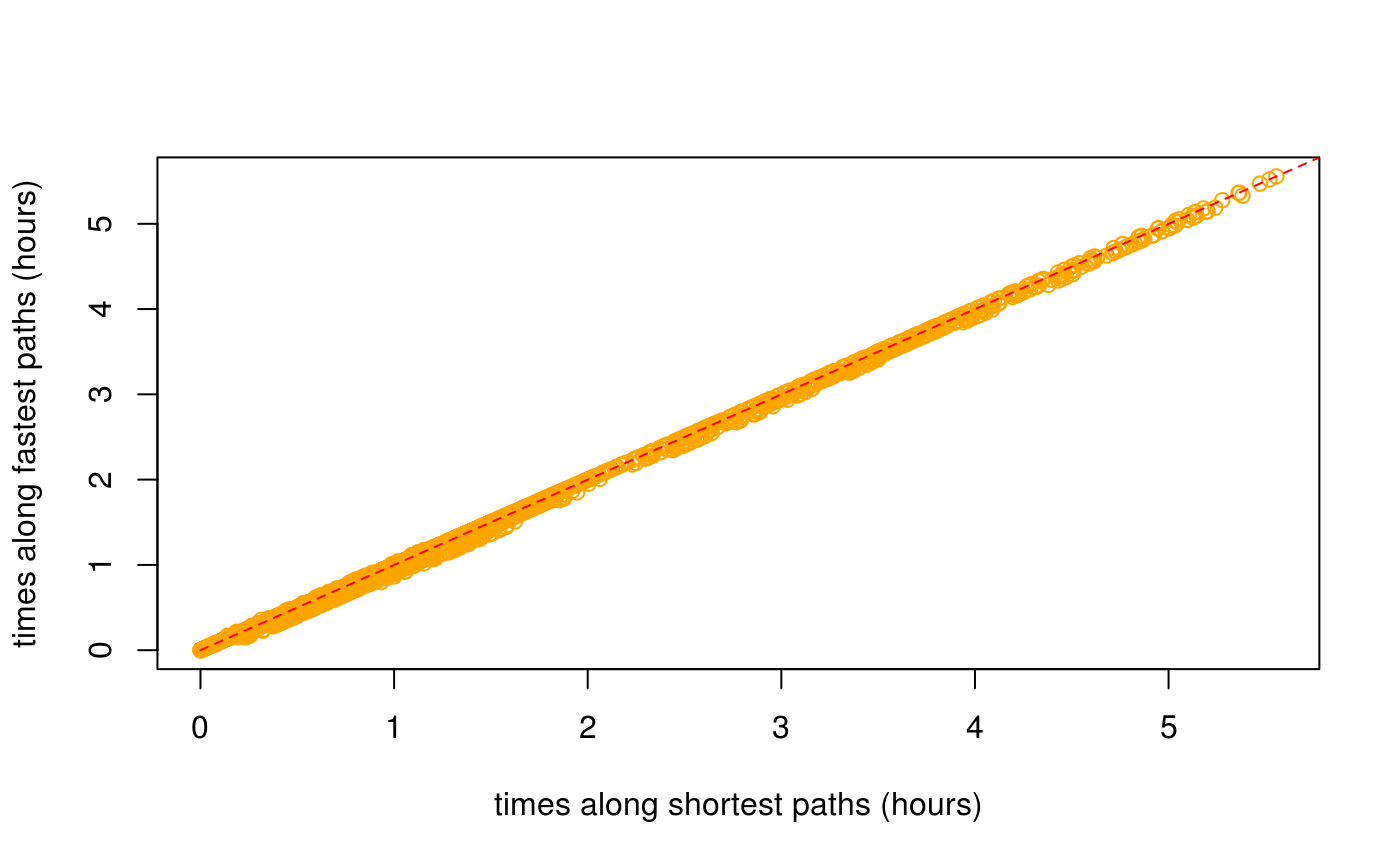
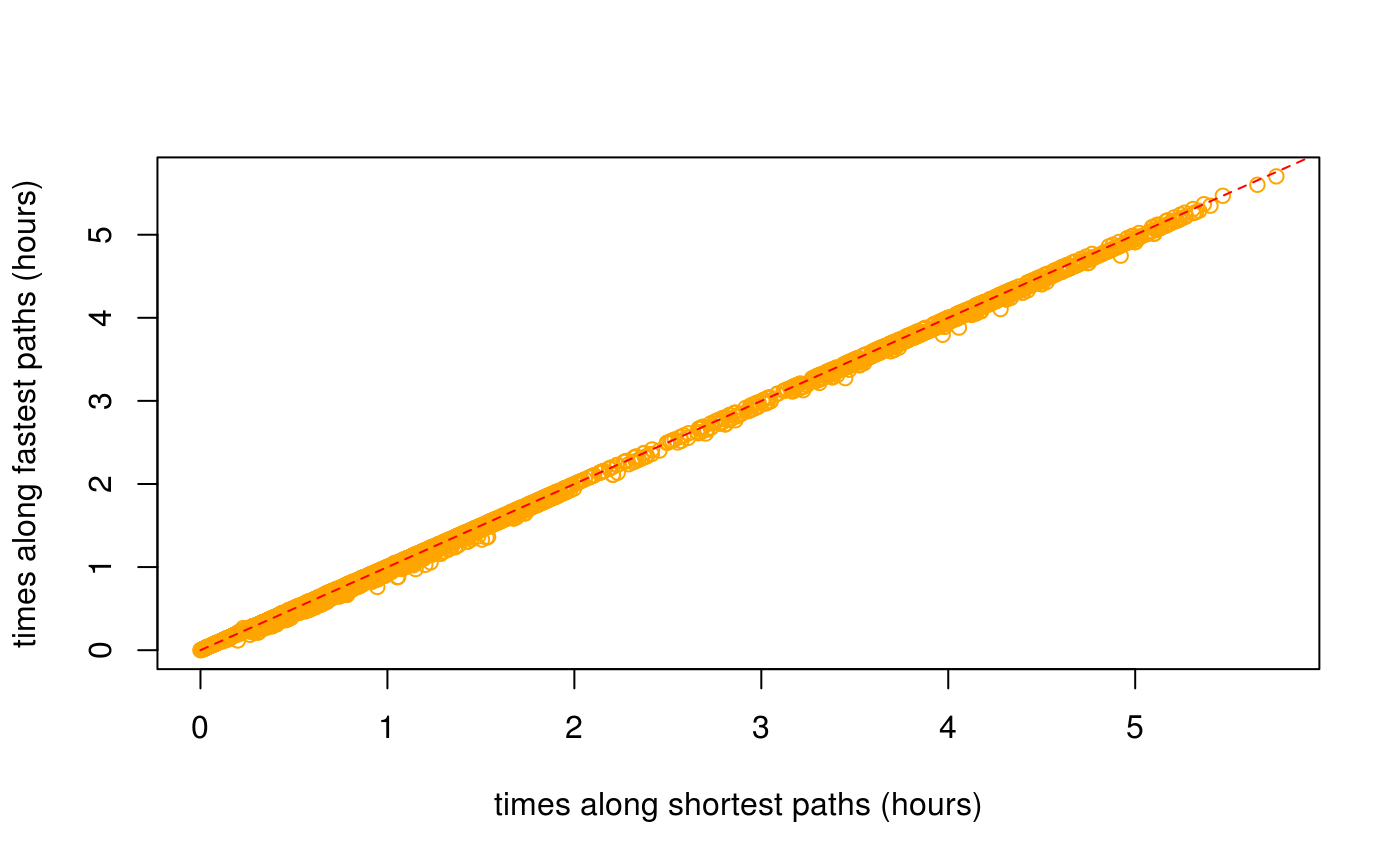
Built site for dodgr: 0.1.4.8@87fca2b

diff --git a/articles/dodgr.html b/articles/dodgr.html
@@ -343,7 +343,7 @@ Figure 2: A <strong>dual</strong>-weighted, directed graph in which the weights 
 <p>The <code>dodgr</code> packages includes a function to select a random connected portion of graph including a specified number of vertices. This function is used in the <code><a href="../reference/compare_heaps.html">compare_heaps()</a></code> function described below, but is also useful for general statistical analyses of large graphs which may otherwise take too long to compute.</p>
 <div class="sourceCode" id="cb59"><pre class="sourceCode r"><code class="sourceCode r"><a class="sourceLine" id="cb59-1" data-line-number="1">graph_sub &lt;-<span class="st"> </span><span class="kw"><a href="../reference/dodgr_sample.html">dodgr_sample</a></span> (graph, <span class="dt">nverts =</span> <span class="dv">100</span>)</a>
 <a class="sourceLine" id="cb59-2" data-line-number="2"><span class="kw"><a href="https://www.rdocumentation.org/packages/base/topics/nrow">nrow</a></span> (graph_sub)</a></code></pre></div>
-<pre><code>## [1] 197</code></pre>
+<pre><code>## [1] 199</code></pre>
 <p>The random sample has around twice as many edges as vertices, in accordance with the statistics calculated above.</p>
 <div class="sourceCode" id="cb61"><pre class="sourceCode r"><code class="sourceCode r"><a class="sourceLine" id="cb61-1" data-line-number="1"><span class="kw"><a href="https://www.rdocumentation.org/packages/base/topics/nrow">nrow</a></span> (<span class="kw"><a href="../reference/dodgr_vertices.html">dodgr_vertices</a></span> (graph_sub))</a></code></pre></div>
 <pre><code>## [1] 100</code></pre>
@@ -420,31 +420,31 @@ Figure 2: A <strong>dual</strong>-weighted, directed graph in which the weights 
 <p>The comparisons are actually made on a randomly selected sub-component of the graph containing a defined number of vertices (with a default of 1,000, or the entire graph if it contains fewer than 1,000 vertices).</p>
 <div class="sourceCode" id="cb77"><pre class="sourceCode r"><code class="sourceCode r"><a class="sourceLine" id="cb77-1" data-line-number="1"><span class="kw"><a href="../reference/compare_heaps.html">compare_heaps</a></span> (graph, <span class="dt">nverts =</span> <span class="dv">100</span>, <span class="dt">replications =</span> <span class="dv">1</span>)</a></code></pre></div>
 <pre><code>##                                                                                   test
-## 6       d &lt;- dodgr_dists(graph_contracted, from = from_id, to = to_id, heap = "BHeap")
-## 7       d &lt;- dodgr_dists(graph_contracted, from = from_id, to = to_id, heap = "FHeap")
 ## 8     d &lt;- dodgr_dists(graph_contracted, from = from_id, to = to_id, heap = "TriHeap")
 ## 9  d &lt;- dodgr_dists(graph_contracted, from = from_id, to = to_id, heap = "TriHeapExt")
+## 6       d &lt;- dodgr_dists(graph_contracted, from = from_id, to = to_id, heap = "BHeap")
+## 7       d &lt;- dodgr_dists(graph_contracted, from = from_id, to = to_id, heap = "FHeap")
+## 10     d &lt;- dodgr_dists(graph_contracted, from = from_id, to = to_id, heap = "Heap23")
 ## 11        d &lt;- dodgr_dists(graph_contracted, from = from_id, to = to_id, heap = "set")
 ## 12                  d &lt;- igraph::distances(igr, v = from_id, to = to_id, mode = "out")
 ## 4             d &lt;- dodgr_dists(graph, from = from_id, to = to_id, heap = "TriHeapExt")
 ## 5                 d &lt;- dodgr_dists(graph, from = from_id, to = to_id, heap = "Heap23")
-## 10     d &lt;- dodgr_dists(graph_contracted, from = from_id, to = to_id, heap = "Heap23")
 ## 1                  d &lt;- dodgr_dists(graph, from = from_id, to = to_id, heap = "BHeap")
 ## 2                  d &lt;- dodgr_dists(graph, from = from_id, to = to_id, heap = "FHeap")
 ## 3                d &lt;- dodgr_dists(graph, from = from_id, to = to_id, heap = "TriHeap")
 ##    replications elapsed relative user.self sys.self user.child sys.child
-## 6             1   0.002      1.0     0.004        0          0         0
-## 7             1   0.002      1.0     0.000        0          0         0
-## 8             1   0.002      1.0     0.000        0          0         0
-## 9             1   0.002      1.0     0.004        0          0         0
-## 11            1   0.002      1.0     0.004        0          0         0
-## 12            1   0.002      1.0     0.000        0          0         0
-## 4             1   0.003      1.5     0.000        0          0         0
-## 5             1   0.003      1.5     0.004        0          0         0
-## 10            1   0.003      1.5     0.004        0          0         0
-## 1             1   0.005      2.5     0.004        0          0         0
-## 2             1   0.005      2.5     0.004        0          0         0
-## 3             1   0.005      2.5     0.004        0          0         0</code></pre>
+## 8             1   0.002      1.0     0.004    0.000          0         0
+## 9             1   0.002      1.0     0.000    0.000          0         0
+## 6             1   0.003      1.5     0.004    0.000          0         0
+## 7             1   0.003      1.5     0.004    0.000          0         0
+## 10            1   0.003      1.5     0.000    0.000          0         0
+## 11            1   0.003      1.5     0.004    0.000          0         0
+## 12            1   0.003      1.5     0.000    0.000          0         0
+## 4             1   0.004      2.0     0.000    0.000          0         0
+## 5             1   0.004      2.0     0.000    0.000          0         0
+## 1             1   0.005      2.5     0.004    0.004          0         0
+## 2             1   0.005      2.5     0.004    0.000          0         0
+## 3             1   0.006      3.0     0.008    0.000          0         0</code></pre>
 <p>The key column of that <code>data.frame</code> is <code>relative</code>, which quantifies the relative performance of each test in relation to the best which is given a score of 1. <code>dodgr</code> using the default <code>heap = "BHeap"</code>, which is a binary heap priority queue, performs faster than <code>igraph</code> <span class="citation">(Csardi and Nepusz 2006)</span> for these graphs. Different kind of graphs will perform differently with different priority queue structures, and this function enables users to empirically discern the optimal heap for their kind of graph.</p>
 <p>Note, however, that this is not an entirely fair comparison, because <code>dodgr</code> calculates dual-weighted distances, whereas <code>igraph</code>—and indeed all other <strong>R</strong> packages—only directly calculate distances based on a single set of weights. Implementing dual-weighted routing in these cases requires explicitly re-tracing all paths and summing the second set of weights along each path. A time comparison in that case would be very strongly in favour of <code>dodgr</code>. Moreover, <code>dodgr</code> can convert graphs to contracted form through removing redundant vertices, as detailed in the following section. Doing so greatly improves performance with respect to <code>igraph</code>.</p>
 <p>For those wishing to do explicit comparisons themselves, the following code generates the <code>igraph</code> equivalent of <code><a href="../reference/dodgr_dists.html">dodgr_dists()</a></code>, although of course for single-weighted graphs only:</p>
@@ -497,11 +497,11 @@ Figure 3: <strong>(A)</strong> Vertex#2 is redundant for routing calculations fr
 <pre><code>## [1] 672</code></pre>
 <div class="sourceCode" id="cb89"><pre class="sourceCode r"><code class="sourceCode r"><a class="sourceLine" id="cb89-1" data-line-number="1">verts &lt;-<span class="st"> </span><span class="kw"><a href="https://www.rdocumentation.org/packages/base/topics/sample">sample</a></span> (<span class="kw"><a href="../reference/dodgr_vertices.html">dodgr_vertices</a></span> (graph)<span class="op">$</span>id, <span class="dt">size =</span> <span class="dv">100</span>)</a>
 <a class="sourceLine" id="cb89-2" data-line-number="2"><span class="kw"><a href="https://www.rdocumentation.org/packages/utils/topics/head">head</a></span> (verts) <span class="co"># a character vector</span></a></code></pre></div>
-<pre><code>## [1] "2627422262" "2608163885" "3921522990" "6161853494" "1128374455"
-## [6] "1388482060"</code></pre>
+<pre><code>## [1] "5351820885" "2398957710" "339059961"  "4337842083" "1143452509"
+## [6] "2398957606"</code></pre>
 <div class="sourceCode" id="cb91"><pre class="sourceCode r"><code class="sourceCode r"><a class="sourceLine" id="cb91-1" data-line-number="1">grc &lt;-<span class="st"> </span><span class="kw"><a href="../reference/dodgr_contract_graph.html">dodgr_contract_graph</a></span> (graph, verts)</a>
 <a class="sourceLine" id="cb91-2" data-line-number="2"><span class="kw"><a href="https://www.rdocumentation.org/packages/base/topics/nrow">nrow</a></span> (grc)</a></code></pre></div>
-<pre><code>## [1] 853</code></pre>
+<pre><code>## [1] 852</code></pre>
 <p>Retaining the nominated vertices yields a graph with considerably more edges than the fully contracted graph excluding these vertices. The <code><a href="../reference/dodgr_dists.html">dodgr_dists()</a></code> function can be applied to the latter graph to obtain accurate distances precisely routed between these points, yet using the speed advantages of graph contraction.</p>
 </div>
 </div>
@@ -542,24 +542,30 @@ Figure 3: <strong>(A)</strong> Vertex#2 is redundant for routing calculations fr
 <pre><code>## [1] 10</code></pre>
 <p>The result (<code>dp</code>) is a list of 10 items, each of which contains 5 vectors. An example is,</p>
 <div class="sourceCode" id="cb98"><pre class="sourceCode r"><code class="sourceCode r"><a class="sourceLine" id="cb98-1" data-line-number="1">dp [[<span class="dv">1</span>]] [[<span class="dv">1</span>]]</a></code></pre></div>
-<pre><code>##  [1] "1143452200" "1143452375" "1143452528" "1143452143" "1143452259"
-##  [6] "1143452436" "1143452073" "1143452194" "1143452310" "1143452508"
-## [11] "1143452100" "1143452242" "977490103"  "1143452363" "1143452064"
-## [16] "1143452136" "1143452299" "1143452419" "1143452089" "1143452177"
-## [21] "1143452342" "1143452489" "1143452126" "977490123"  "1143452220"
-## [26] "1143452396" "977490089"  "1143452544" "1143452159" "1143452278"
-## [31] "977490059"  "1143452367" "1143452068"</code></pre>
+<pre><code>##  [1] "2588155704" "2588155723" "2588155711" "2588155757" "2588155716"
+##  [6] "2588155777" "2588155750" "2588155754" "2588155755" "2588155712"
+## [11] "2588155779" "2588155771" "2588155718" "2588155703" "2588155714"
+## [16] "2588155776" "2588155740" "2588155778" "2588155726" "2588155706"
+## [21] "2588155705" "2398957796" "2398957797" "2398957798" "340148006" 
+## [26] "340148007"  "2398957809" "2398957814" "286632895"  "1390214618"
+## [31] "2398957831" "2398957835" "286632896"  "2398957838" "1604033309"
+## [36] "2398957841" "2398957842" "2627476980" "2627476985" "339574165" 
+## [41] "1054867492" "980400807"  "1054860350" "980400593"  "1054865355"
+## [46] "1054866475" "980400414"  "2636572486" "980400974"  "980400874" 
+## [51] "980400857"  "980400742"  "980400495"  "2627476981" "2627476983"
+## [56] "2627476988" "2627476990" "3921515978" "3697939526" "3697939525"
+## [61] "2627477003" "3697938722"</code></pre>
 <p>For spatial graphs, the coordinates of these paths can be obtained by extracting the vertices with <code><a href="../reference/dodgr_vertices.html">dodgr_vertices()</a></code> and matching the vertex IDs:</p>
 <div class="sourceCode" id="cb100"><pre class="sourceCode r"><code class="sourceCode r"><a class="sourceLine" id="cb100-1" data-line-number="1">verts &lt;-<span class="st"> </span><span class="kw"><a href="../reference/dodgr_vertices.html">dodgr_vertices</a></span> (graph)</a>
 <a class="sourceLine" id="cb100-2" data-line-number="2">path1 &lt;-<span class="st"> </span>verts [<span class="kw"><a href="https://www.rdocumentation.org/packages/base/topics/match">match</a></span> (dp [[<span class="dv">1</span>]] [[<span class="dv">1</span>]], verts<span class="op">$</span>id), ]</a>
 <a class="sourceLine" id="cb100-3" data-line-number="3"><span class="kw"><a href="https://www.rdocumentation.org/packages/utils/topics/head">head</a></span> (path1)</a></code></pre></div>
 <pre><code>##              id        x        y component    n
-## 2084 1143452200 76.46959 15.35451         2 1055
-## 2086 1143452375 76.46968 15.35454         2 1056
-## 2088 1143452528 76.46973 15.35449         2 1057
-## 2090 1143452143 76.46973 15.35445         2 1058
-## 2092 1143452259 76.46978 15.35443         2 1059
-## 2094 1143452436 76.46977 15.35438         2 1060</code></pre>
+## 3742 2588155704 76.44760 15.32610         1 1874
+## 3744 2588155723 76.44822 15.32612         1 1875
+## 3746 2588155711 76.44855 15.32624         1 1876
+## 3748 2588155757 76.44861 15.32638         1 1877
+## 3750 2588155716 76.44856 15.32662         1 1878
+## 3752 2588155777 76.44873 15.32687         1 1879</code></pre>
 <p>Paths calculated on contracted graphs will of course have fewer vertices than those calculated on full graphs.</p>
 </div>
 <div id="aggregated-flows" class="section level1">
@@ -603,7 +609,7 @@ Figure 3: <strong>(A)</strong> Vertex#2 is redundant for routing calculations fr
 <p>Most flows are zero because they have only been calculated between very few points in the graph.</p>
 <div class="sourceCode" id="cb105"><pre class="sourceCode r"><code class="sourceCode r"><a class="sourceLine" id="cb105-1" data-line-number="1"><span class="kw"><a href="https://www.rdocumentation.org/packages/base/topics/summary">summary</a></span> (graph_f<span class="op">$</span>flow)</a></code></pre></div>
 <pre><code>##    Min. 1st Qu.  Median    Mean 3rd Qu.    Max. 
-##   0.000   0.000   0.000   4.872   2.562  46.928</code></pre>
+##   0.000   0.000   0.000   8.801   0.000 113.262</code></pre>
 </div>
 <div id="flow-dispersal" class="section level2">
 <h2 class="hasAnchor">
@@ -613,7 +619,7 @@ Figure 3: <strong>(A)</strong> Vertex#2 is redundant for routing calculations fr
 <a class="sourceLine" id="cb107-2" data-line-number="2">graph_f &lt;-<span class="st"> </span><span class="kw"><a href="../reference/dodgr_flows_disperse.html">dodgr_flows_disperse</a></span> (graph, <span class="dt">from =</span> from, <span class="dt">dens =</span> dens)</a>
 <a class="sourceLine" id="cb107-3" data-line-number="3"><span class="kw"><a href="https://www.rdocumentation.org/packages/base/topics/summary">summary</a></span> (graph_f<span class="op">$</span>flow)</a></code></pre></div>
 <pre><code>##      Min.   1st Qu.    Median      Mean   3rd Qu.      Max. 
-## 0.0000000 0.0000000 0.0000000 0.0001446 0.0000000 0.5972517</code></pre>
+## 0.000e+00 0.000e+00 0.000e+00 1.087e-05 0.000e+00 2.742e-02</code></pre>
 </div>
 <div id="merging-directed-flows" class="section level2">
 <h2 class="hasAnchor">
@@ -623,7 +629,7 @@ Figure 3: <strong>(A)</strong> Vertex#2 is redundant for routing calculations fr
 <p>Resultant graphs produced by <code><a href="../reference/merge_directed_flows.html">merge_directed_flows()</a></code> only include those edges having non-zero flows, and so:</p>
 <div class="sourceCode" id="cb110"><pre class="sourceCode r"><code class="sourceCode r"><a class="sourceLine" id="cb110-1" data-line-number="1"><span class="kw"><a href="https://www.rdocumentation.org/packages/base/topics/nrow">nrow</a></span> (graph_f); <span class="kw"><a href="https://www.rdocumentation.org/packages/base/topics/nrow">nrow</a></span> (graph_undir) <span class="co"># the latter is much smaller</span></a></code></pre></div>
 <pre><code>## [1] 5973</code></pre>
-<pre><code>## [1] 1956</code></pre>
+<pre><code>## [1] 1407</code></pre>
 <p>The resultant graph can readily be merged with the original graph to regain the original data on vertex coordinates through</p>
 <div class="sourceCode" id="cb113"><pre class="sourceCode r"><code class="sourceCode r"><a class="sourceLine" id="cb113-1" data-line-number="1">graph &lt;-<span class="st"> </span>graph [graph_undir<span class="op">$</span>edge_id, ]</a>
 <a class="sourceLine" id="cb113-2" data-line-number="2">graph<span class="op">$</span>flow &lt;-<span class="st"> </span>graph_undir<span class="op">$</span>flow</a></code></pre></div>

diff --git a/articles/times.html b/articles/times.html
@@ -233,11 +233,11 @@ Figure 1: Graph modification to account for turn angles, which introduces the ad
 <p><img src="times_files/figure-html/shortest-vs-fastest-1.png" width="700"></p>
 <p>The average distance between the two (in metres) is:</p>
 <div class="sourceCode" id="cb11"><pre class="sourceCode r"><code class="sourceCode r"><a class="sourceLine" id="cb11-1" data-line-number="1"><span class="kw"><a href="https://www.rdocumentation.org/packages/base/topics/mean">mean</a></span> (<span class="kw"><a href="https://www.rdocumentation.org/packages/base/topics/MathFun">abs</a></span> (d_time <span class="op">-</span><span class="st"> </span>d_dist), <span class="dt">na.rm =</span> <span class="ot">TRUE</span>)</a></code></pre></div>
-<pre><code>## [1] 40.66906</code></pre>
+<pre><code>## [1] 53.03757</code></pre>
 <p>The plot reveals that shortest distances are indeed somewhat shorter than distances along fastest paths, but also that some fastest paths are actually shorter than shortest paths:</p>
 <div class="sourceCode" id="cb13"><pre class="sourceCode r"><code class="sourceCode r"><a class="sourceLine" id="cb13-1" data-line-number="1">index &lt;-<span class="st"> </span><span class="kw"><a href="https://www.rdocumentation.org/packages/base/topics/which">which</a></span> (<span class="op">!</span><span class="kw"><a href="https://www.rdocumentation.org/packages/base/topics/NA">is.na</a></span> (d_time) <span class="op">&amp;</span><span class="st"> </span><span class="op">!</span><span class="kw"><a href="https://www.rdocumentation.org/packages/base/topics/NA">is.na</a></span> (d_dist))</a>
 <a class="sourceLine" id="cb13-2" data-line-number="2"><span class="kw"><a href="https://www.rdocumentation.org/packages/base/topics/length">length</a></span> (<span class="kw"><a href="https://www.rdocumentation.org/packages/base/topics/which">which</a></span> (d_time [index] <span class="op">&lt;</span><span class="st"> </span>d_dist [index])) <span class="op">/</span><span class="st"> </span><span class="kw"><a href="https://www.rdocumentation.org/packages/base/topics/length">length</a></span> (index)</a></code></pre></div>
-<pre><code>## [1] 0.01901566</code></pre>
+<pre><code>## [1] 0.01391902</code></pre>
 <p>While <code>dodgr</code> and indeed all routing engines attempt to maximally reconcile differences between fastest and shortest routes, there nevertheless remain important discrepancies. Foremost among these, and the primary reason why some fastest routes may in fact be shorter than shortest routes, is that fastest routes allocate preferences for different kinds of way based both on the <code>value</code> column in the <code>weighting_profiles$weighting_profiles</code> table illustrated above, and on the actual maximum speed of a given edge, which itself may be a combination of maximum speeds as specified in OSM itself, maximum speeds from the <code>weighting_profiles$weighting_profiles</code> table, or values specific to a given surface. The result is that some unique combination of maximum speeds along a network may lead to <em>fastest</em> routes being preferentially directed along a path that is actually shorter than the direct shortest path which is calculated independent of maximum speed values.</p>
 <p>Such discrepancies are important in understanding differences in routes <em>times</em> calculated along shortest versus fastest paths. These times can be calculated (in seconds) with the <a href="https://atfutures.github.io/dodgr/reference/dodgr_times.html"><code><a href="../reference/dodgr_times.html">dodgr_times()</a></code></a> function:</p>
 <div class="sourceCode" id="cb15"><pre class="sourceCode r"><code class="sourceCode r"><a class="sourceLine" id="cb15-1" data-line-number="1">t_dist &lt;-<span class="st"> </span><span class="kw"><a href="../reference/dodgr_times.html">dodgr_times</a></span> (graph, <span class="dt">from =</span> from, <span class="dt">to =</span> to, <span class="dt">shortest =</span> <span class="ot">TRUE</span>) <span class="co"># default</span></a>
@@ -248,11 +248,11 @@ Figure 1: Graph modification to account for turn angles, which introduces the ad
 <a class="sourceLine" id="cb15-6" data-line-number="6"><span class="kw"><a href="https://www.rdocumentation.org/packages/graphics/topics/lines">lines</a></span> (<span class="dv">0</span><span class="op">:</span><span class="dv">100</span>, <span class="dv">0</span><span class="op">:</span><span class="dv">100</span>, <span class="dt">col =</span> <span class="st">"red"</span>, <span class="dt">lty =</span> <span class="dv">2</span>)</a></code></pre></div>
 <p><img src="times_files/figure-html/shortest-vs-fastest-times-1.png" width="700"></p>
 <div class="sourceCode" id="cb16"><pre class="sourceCode r"><code class="sourceCode r"><a class="sourceLine" id="cb16-1" data-line-number="1"><span class="kw"><a href="https://www.rdocumentation.org/packages/base/topics/mean">mean</a></span> (<span class="kw"><a href="https://www.rdocumentation.org/packages/base/topics/MathFun">abs</a></span> (t_time <span class="op">-</span><span class="st"> </span>t_dist), <span class="dt">na.rm =</span> <span class="ot">TRUE</span>)</a></code></pre></div>
-<pre><code>## [1] 46.45628</code></pre>
+<pre><code>## [1] 50.28556</code></pre>
 <p>As above, times along fastest paths are generally less than times along shortest paths, although there are again a few exceptions:</p>
 <div class="sourceCode" id="cb18"><pre class="sourceCode r"><code class="sourceCode r"><a class="sourceLine" id="cb18-1" data-line-number="1">index &lt;-<span class="st"> </span><span class="kw"><a href="https://www.rdocumentation.org/packages/base/topics/which">which</a></span> (<span class="op">!</span><span class="kw"><a href="https://www.rdocumentation.org/packages/base/topics/NA">is.na</a></span> (t_time) <span class="op">&amp;</span><span class="st"> </span><span class="op">!</span><span class="kw"><a href="https://www.rdocumentation.org/packages/base/topics/NA">is.na</a></span> (t_dist))</a>
 <a class="sourceLine" id="cb18-2" data-line-number="2"><span class="kw"><a href="https://www.rdocumentation.org/packages/base/topics/length">length</a></span> (<span class="kw"><a href="https://www.rdocumentation.org/packages/base/topics/which">which</a></span> (t_dist [index] <span class="op">&lt;</span><span class="st"> </span>t_time [index])) <span class="op">/</span><span class="st"> </span><span class="kw"><a href="https://www.rdocumentation.org/packages/base/topics/length">length</a></span> (index)</a></code></pre></div>
-<pre><code>## [1] 0.01043997</code></pre>
+<pre><code>## [1] 0.02603037</code></pre>
 <p>These results demonstrate how the combination of the <a href="https://atfutures.github.io/dodgr/reference/dodgr_distances.html"><code><a href="../reference/dodgr_distances.html">dodgr_distances()</a></code></a> and <a href="https://atfutures.github.io/dodgr/reference/dodgr_times.html"><code><a href="../reference/dodgr_times.html">dodgr_times()</a></code></a> functions enable calculation of both distances and times along both shortest and fastest paths.</p>
 <div id="time-based-paths-and-flow-aggregation" class="section level2">
 <h2 class="hasAnchor">

diff --git a/reference/compare_heaps.html b/reference/compare_heaps.html
@@ -158,27 +158,27 @@ fair comparisons, run only once or re-start the current R session.</p>
 #&gt; 11        d &lt;- dodgr_dists(graph_contracted, from = from_id, to = to_id, heap = "set")
 #&gt; 7       d &lt;- dodgr_dists(graph_contracted, from = from_id, to = to_id, heap = "FHeap")
 #&gt; 8     d &lt;- dodgr_dists(graph_contracted, from = from_id, to = to_id, heap = "TriHeap")
-#&gt; 9  d &lt;- dodgr_dists(graph_contracted, from = from_id, to = to_id, heap = "TriHeapExt")
 #&gt; 10     d &lt;- dodgr_dists(graph_contracted, from = from_id, to = to_id, heap = "Heap23")
+#&gt; 9  d &lt;- dodgr_dists(graph_contracted, from = from_id, to = to_id, heap = "TriHeapExt")
 #&gt; 12                  d &lt;- igraph::distances(igr, v = from_id, to = to_id, mode = "out")
 #&gt; 1                  d &lt;- dodgr_dists(graph, from = from_id, to = to_id, heap = "BHeap")
-#&gt; 5                 d &lt;- dodgr_dists(graph, from = from_id, to = to_id, heap = "Heap23")
 #&gt; 2                  d &lt;- dodgr_dists(graph, from = from_id, to = to_id, heap = "FHeap")
 #&gt; 3                d &lt;- dodgr_dists(graph, from = from_id, to = to_id, heap = "TriHeap")
+#&gt; 5                 d &lt;- dodgr_dists(graph, from = from_id, to = to_id, heap = "Heap23")
 #&gt; 4             d &lt;- dodgr_dists(graph, from = from_id, to = to_id, heap = "TriHeapExt")
 #&gt;    replications elapsed relative user.self sys.self user.child sys.child
-#&gt; 6             1   0.005      1.0     0.004        0          0         0
-#&gt; 11            1   0.005      1.0     0.004        0          0         0
-#&gt; 7             1   0.006      1.2     0.012        0          0         0
-#&gt; 8             1   0.006      1.2     0.008        0          0         0
-#&gt; 9             1   0.006      1.2     0.008        0          0         0
-#&gt; 10            1   0.006      1.2     0.008        0          0         0
-#&gt; 12            1   0.014      2.8     0.016        0          0         0
-#&gt; 1             1   0.024      4.8     0.040        0          0         0
-#&gt; 5             1   0.031      6.2     0.052        0          0         0
-#&gt; 2             1   0.032      6.4     0.052        0          0         0
-#&gt; 3             1   0.033      6.6     0.056        0          0         0
-#&gt; 4             1   0.036      7.2     0.032        0          0         0</div></pre>
+#&gt; 6             1   0.008    1.000     0.012    0.000          0         0
+#&gt; 11            1   0.008    1.000     0.012    0.000          0         0
+#&gt; 7             1   0.009    1.125     0.016    0.000          0         0
+#&gt; 8             1   0.010    1.250     0.016    0.000          0         0
+#&gt; 10            1   0.010    1.250     0.016    0.000          0         0
+#&gt; 9             1   0.011    1.375     0.012    0.000          0         0
+#&gt; 12            1   0.020    2.500     0.020    0.000          0         0
+#&gt; 1             1   0.032    4.000     0.048    0.004          0         0
+#&gt; 2             1   0.043    5.375     0.072    0.000          0         0
+#&gt; 3             1   0.044    5.500     0.080    0.000          0         0
+#&gt; 5             1   0.044    5.500     0.080    0.000          0         0
+#&gt; 4             1   0.049    6.125     0.048    0.000          0         0</div></pre>
   </div>
   <div class="col-md-3 hidden-xs hidden-sm" id="sidebar">
     <h2>Contents</h2>

diff --git a/reference/dodgr_sample.html b/reference/dodgr_sample.html
@@ -141,7 +141,7 @@ the requested <code>nverts</code>.</p>
     <h2 class="hasAnchor" id="examples"><a class="anchor" href="#examples"></a>Examples</h2>
     <pre class="examples"><div class='input'><span class='no'>graph</span> <span class='kw'>&lt;-</span> <span class='fu'><a href='weight_streetnet.html'>weight_streetnet</a></span> (<span class='no'>hampi</span>)
 <span class='fu'><a href='https://www.rdocumentation.org/packages/base/topics/nrow'>nrow</a></span> (<span class='no'>graph</span>) <span class='co'># 5,742</span></div><div class='output co'>#&gt; [1] 5973</div><div class='input'><span class='no'>graph</span> <span class='kw'>&lt;-</span> <span class='fu'>dodgr_sample</span> (<span class='no'>graph</span>, <span class='kw'>nverts</span> <span class='kw'>=</span> <span class='fl'>200</span>)
-<span class='fu'><a href='https://www.rdocumentation.org/packages/base/topics/nrow'>nrow</a></span> (<span class='no'>graph</span>) <span class='co'># generally around 400 edges</span></div><div class='output co'>#&gt; [1] 411</div><div class='input'><span class='fu'><a href='https://www.rdocumentation.org/packages/base/topics/nrow'>nrow</a></span> (<span class='fu'><a href='dodgr_vertices.html'>dodgr_vertices</a></span> (<span class='no'>graph</span>)) <span class='co'># 200</span></div><div class='output co'>#&gt; [1] 200</div></pre>
+<span class='fu'><a href='https://www.rdocumentation.org/packages/base/topics/nrow'>nrow</a></span> (<span class='no'>graph</span>) <span class='co'># generally around 400 edges</span></div><div class='output co'>#&gt; [1] 397</div><div class='input'><span class='fu'><a href='https://www.rdocumentation.org/packages/base/topics/nrow'>nrow</a></span> (<span class='fu'><a href='dodgr_vertices.html'>dodgr_vertices</a></span> (<span class='no'>graph</span>)) <span class='co'># 200</span></div><div class='output co'>#&gt; [1] 200</div></pre>
   </div>
   <div class="col-md-3 hidden-xs hidden-sm" id="sidebar">
     <h2>Contents</h2>

diff --git a/index.html b/index.html
@@ -511,7 +511,7 @@
 <td align="right">1</td>
 <td align="right">95.358362</td>
 <td align="right">119.197952</td>
-<td align="right">51.9445414</td>
+<td align="right">18.3907</td>
 </tr>
 <tr class="even">
 <td align="right">1</td>
@@ -529,7 +529,7 @@
 <td align="right">1</td>
 <td align="right">95.358362</td>
 <td align="right">119.197952</td>
-<td align="right">0.0000000</td>
+<td align="right">0.0000</td>
 </tr>
 <tr class="odd">
 <td align="right">1</td>
@@ -547,7 +547,7 @@
 <td align="right">1</td>
 <td align="right">6.399843</td>
 <td align="right">7.999803</td>
-<td align="right">51.9445414</td>
+<td align="right">18.3907</td>
 </tr>
 <tr class="even">
 <td align="right">1</td>
@@ -565,7 +565,7 @@
 <td align="right">1</td>
 <td align="right">6.399843</td>
 <td align="right">7.999803</td>
-<td align="right">0.0000000</td>
+<td align="right">0.0000</td>
 </tr>
 <tr class="odd">
 <td align="right">1</td>
@@ -583,7 +583,7 @@
 <td align="right">1</td>
 <td align="right">6.715106</td>
 <td align="right">8.393882</td>
-<td align="right">43.3316639</td>
+<td align="right">18.3907</td>
 </tr>
 <tr class="even">
 <td align="right">1</td>
@@ -601,7 +601,7 @@
 <td align="right">1</td>
 <td align="right">6.715106</td>
 <td align="right">8.393882</td>
-<td align="right">0.8859477</td>
+<td align="right">0.0000</td>
 </tr>
 </tbody>
 </table>
